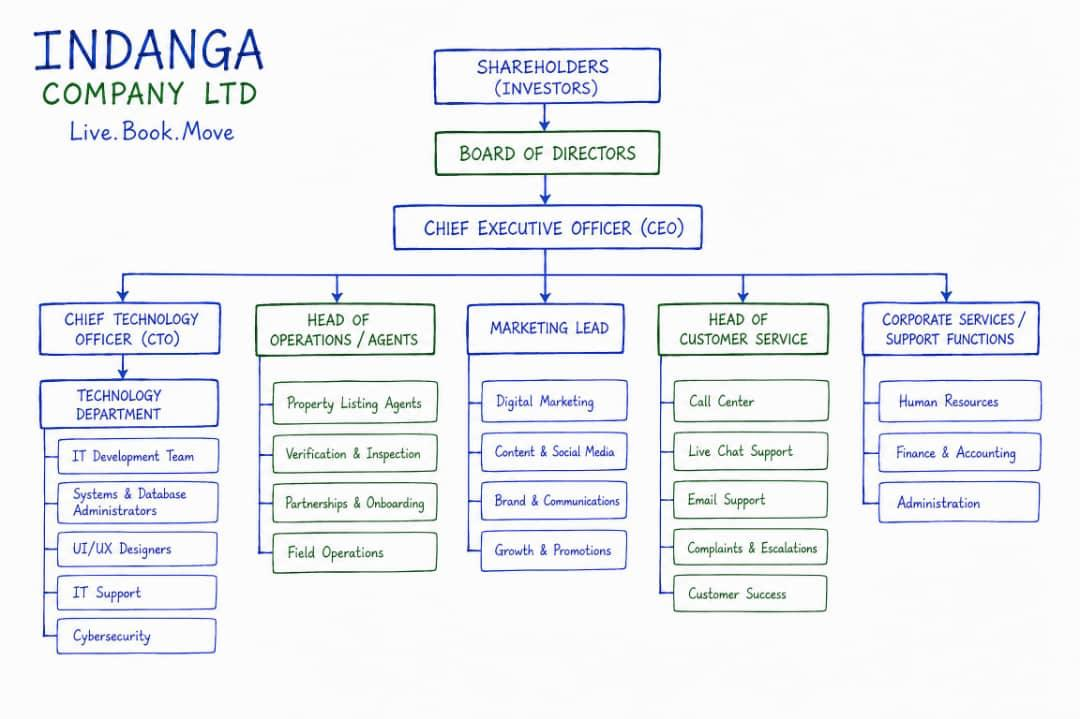
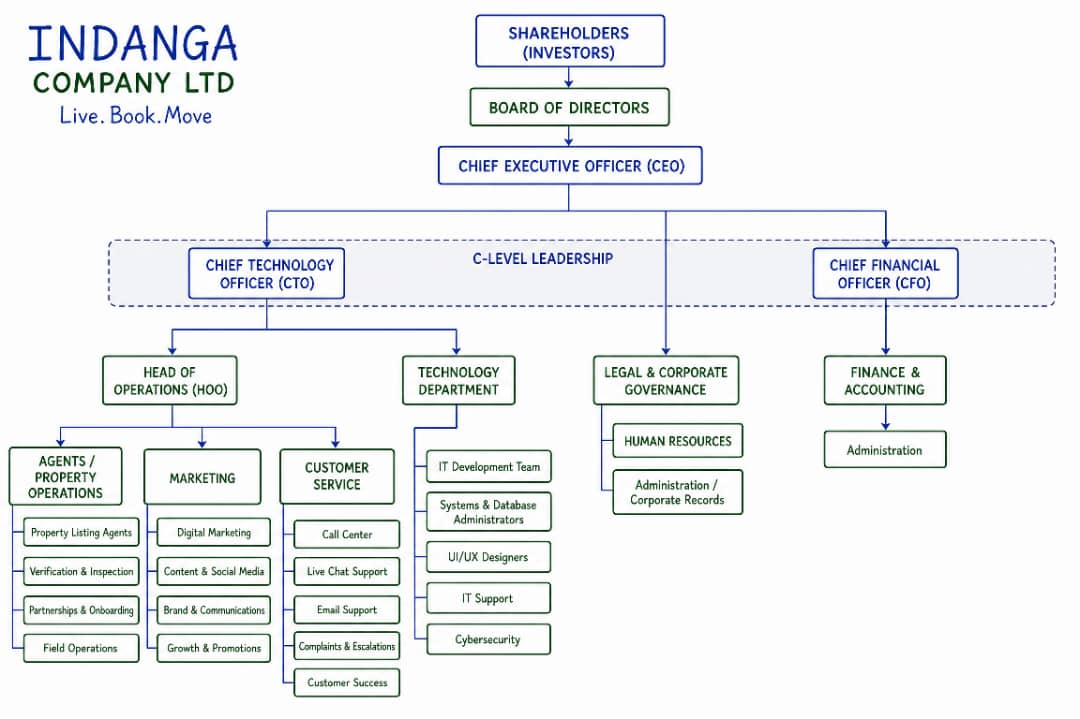
edited images

Changed region(s): [[0.0, 0.0, 0.9778, 0.9791], [0.0306, 0.0306, 0.2444, 0.2142]]

diff --git a/apps/web/components/home/about-section.tsx b/apps/web/components/home/about-section.tsx
@@ -109,7 +109,7 @@ Ikuzwe Shema Elie is a skilled backend developer with expertise in building robu
     name: "RUDASINGWA Bienvenue",
     position: "Frontend Developer",
     department: "Engineering",
-    image: "/Rudasingwa.png",
+    image: "/Rudasingwa.jpeg",
     bio: `
 RUDASINGWA Bienvenue is a talented frontend developer with a passion for creating engaging and user-friendly web experiences. He has a strong foundation in modern web technologies and a keen eye for design.`,
     socialLinks: defaultSocialLinks,
